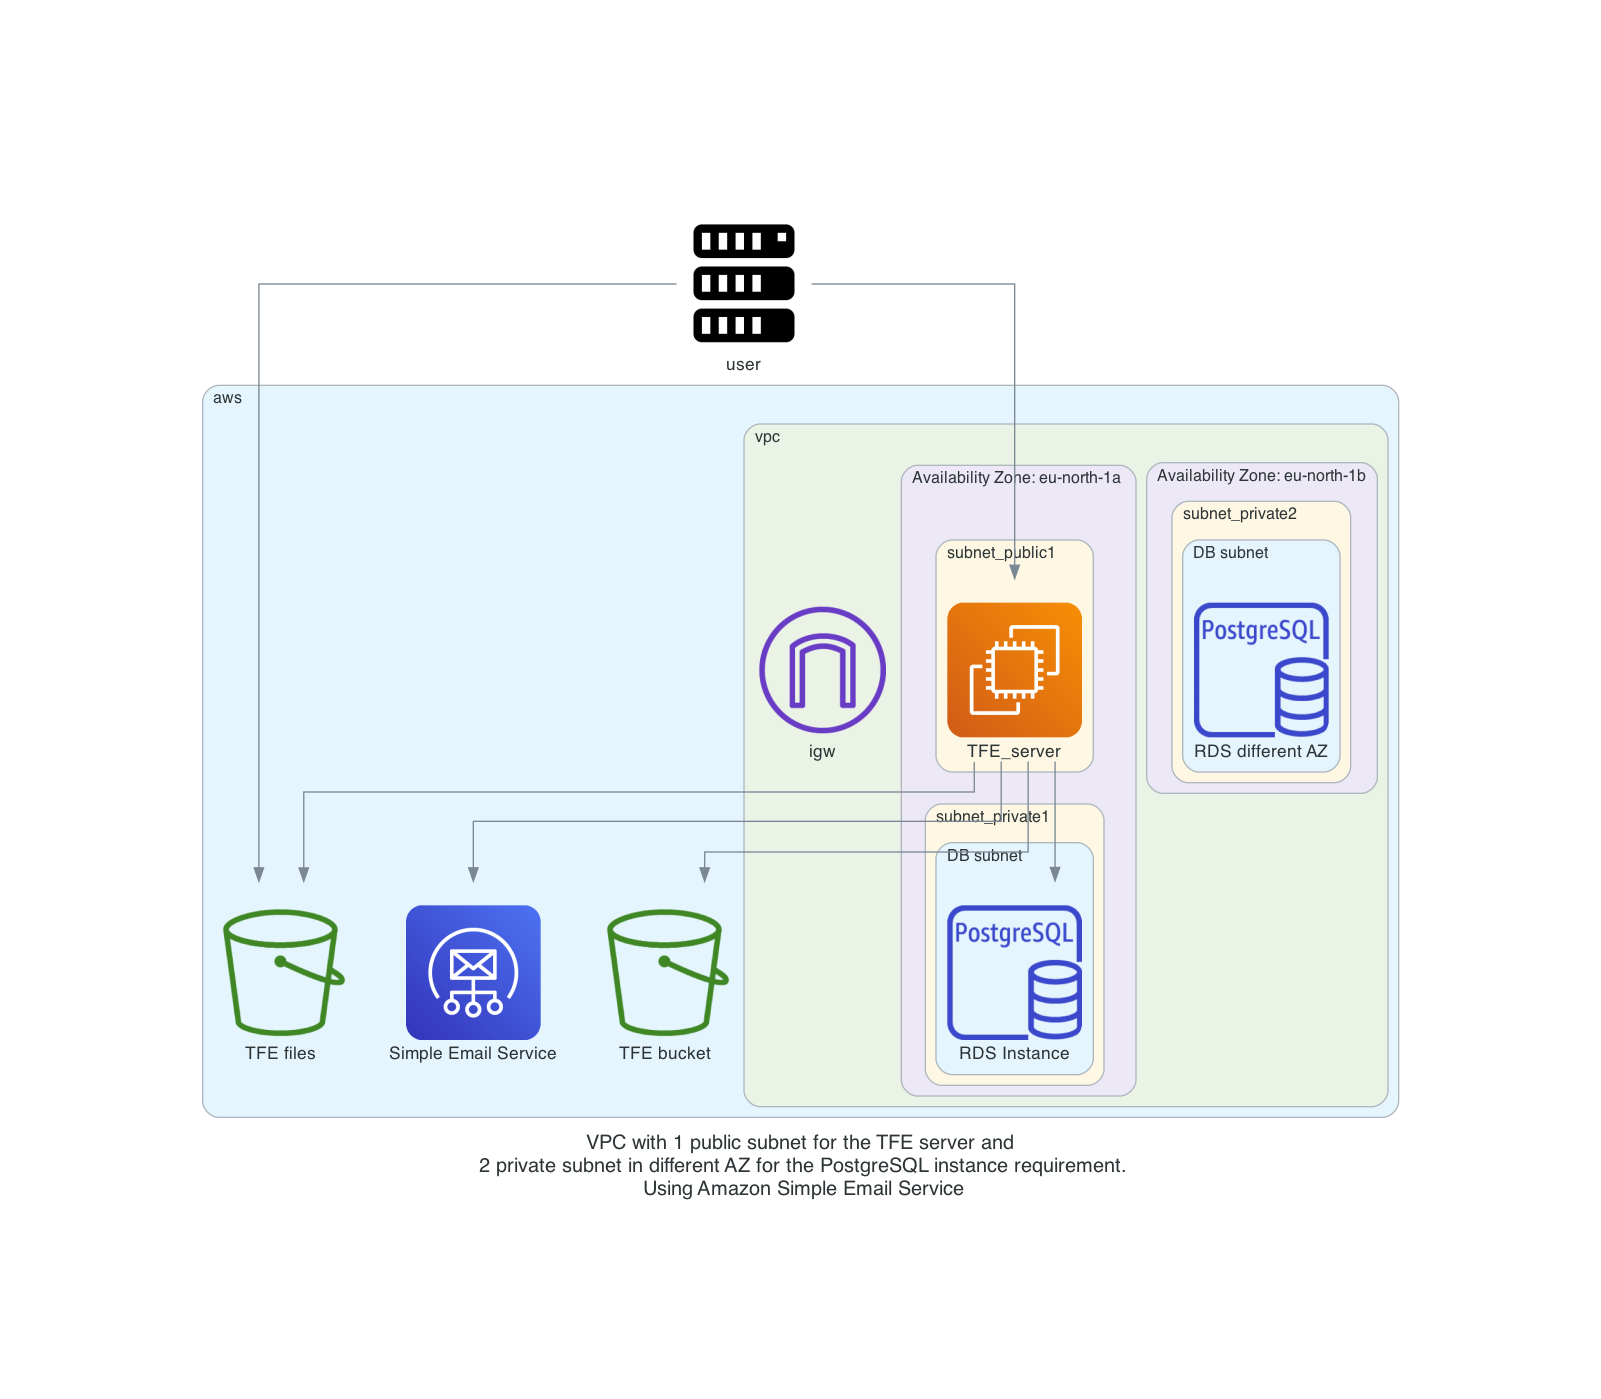
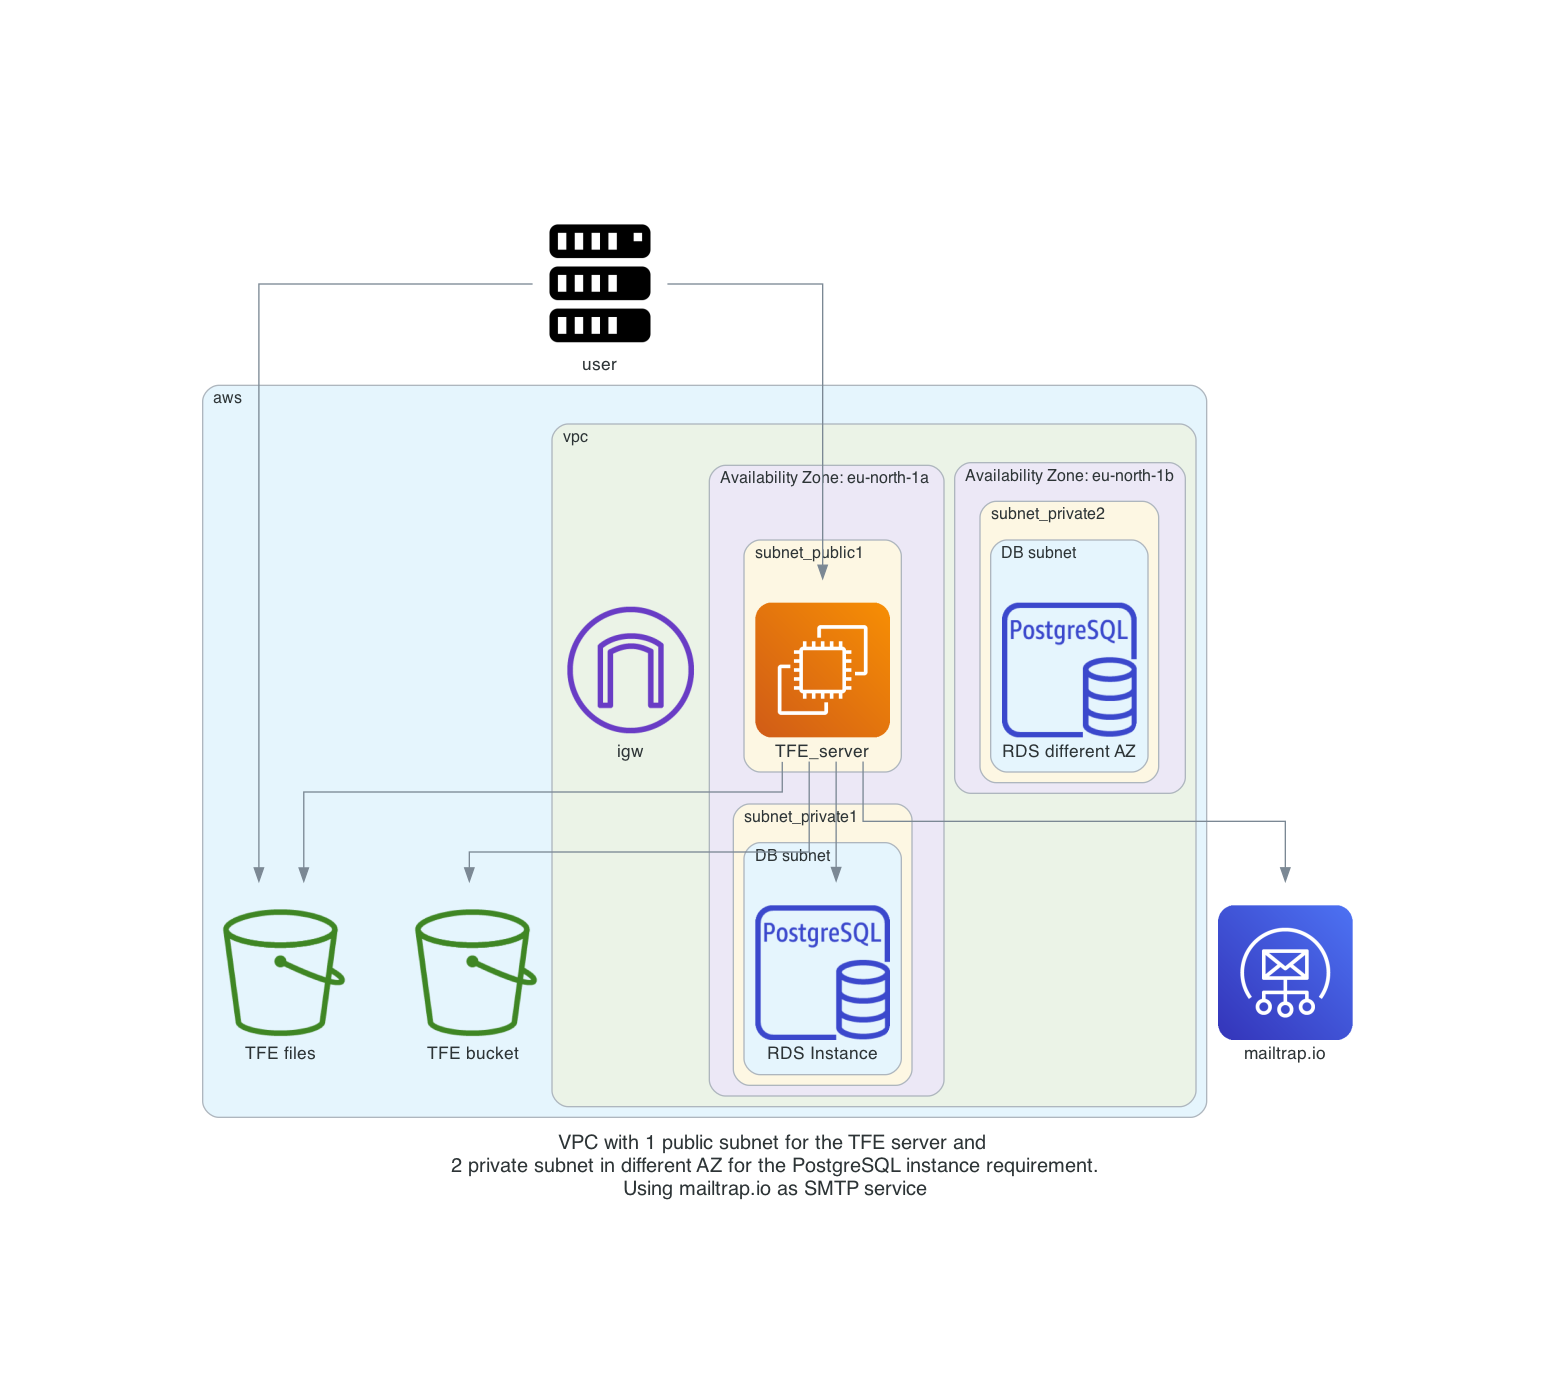
final documentation changes

diff --git a/diagram/diagram_external_smtp.py b/diagram/diagram_external_smtp.py
@@ -7,7 +7,7 @@ from diagrams.aws.database import RDSPostgresqlInstance
 from diagrams.aws.engagement import SimpleEmailServiceSes
 
 # Variables
-title = "VPC with 1 public subnet for the TFE server and\n 2 private subnet in different AZ for the PostgreSQL instance requirement.\n Using Amazon Simple Email Service"
+title = "VPC with 1 public subnet for the TFE server and\n 2 private subnet in different AZ for the PostgreSQL instance requirement.\n Using mailtrap.io as SMTP service"
 outformat = "png"
 filename = "diagram_external_smtp"
 direction = "TB"
@@ -21,10 +21,10 @@ with Diagram(
 ) as diag:
     # Non Clustered
     user = Server("user")
+    mailtrap = SimpleEmailServiceSes("mailtrap.io")
 
     # Cluster 
     with Cluster("aws"):
-        ses = SimpleEmailServiceSes("Simple Email Service")
         bucket_tfe = SimpleStorageServiceS3Bucket("TFE bucket")
         bucket_files = SimpleStorageServiceS3Bucket("TFE files")
         with Cluster("vpc"):
@@ -55,6 +55,6 @@ with Diagram(
     ec2_tfe_server >> [postgresql,
                        bucket_tfe, 
                        bucket_files,
-                       ses]
+                       mailtrap]
 
 diag

diff --git a/README.md b/README.md
@@ -22,17 +22,13 @@ The Terraform code will do the following steps
 ## License
 Make sure you have a TFE license available for use
 
-Store this under the directory `airgap/license.rli`
+Store this under the directory `files/license.rli`
 
-## Airgap software
-Download the `.airgap` file using the information given to you in your setup email and place that file under the directory `./airgap`
+## Mailtrap.io
+Make sure you have a free account on [mailtrap.io](https://mailtrap.io) and you get the specifics of the SMTP settings from your mailtrap.io mailbox.   
 
-Store this for example under the directory `airgap/610.airgap`
-
-## Installer Bootstrap
-[Download the installer bootstrapper](https://install.terraform.io/airgap/latest.tar.gz)
-
-Store this under the directory `airgap/replicated.tar.gz`
+Example:    
+![](media/20220720115927.png)    
 
 ## AWS
 We will be using AWS. Make sure you have the following
@@ -47,39 +43,84 @@ You need to have valid TLS certificates that can be used with the DNS name you w
   
 The repo assumes you have no certificates and want to create them using Let's Encrypt and that your DNS domain is managed under AWS. 
 
-
-
 # How to
 
+- Clone the repository to your local machine
+```sh
+git clone https://github.com/munnep/tfe_aws_smtp.git
+```
+- Go to the directory
+```sh
+cd tfe_aws_smtp
+```
+- Set your AWS credentials
+```sh
+export AWS_ACCESS_KEY_ID=
+export AWS_SECRET_ACCESS_KEY=
+export AWS_SESSION_TOKEN=
+```
+- Store the files needed for the TFE Airgap installation under the `./airgap` directory, See the notes [here](./airgap/README.md)
+- create a file called `variables.auto.tfvars` with the following contents and your own values
+```hcl
+tag_prefix               = "patrick-tfe7"                             # TAG prefix for names to easily find your AWS resources
+region                   = "eu-north-1"                               # Region to create the environment
+vpc_cidr                 = "10.234.0.0/16"                            # subnet mask that can be used 
+ami                      = "ami-09f0506c9ef0fb473"                    # AMI of the Ubuntu image  
+rds_password             = "Password#1"                               # password used for the RDS environment
+filename_license         = "license.rli"                              # filename of your TFE license stored under ./airgap
+dns_hostname             = "patrick-tfe7"                             # DNS hostname for the TFE
+dns_zonename             = "bg.hashicorp-success.com"                 # DNS zone name to be used
+tfe_password             = "Password#1"                               # TFE password for the dashboard and encryption of the data
+certificate_email        = "patrick.munne@hashicorp.com"              # Your email address used by TLS certificate registration
+public_key               = "ssh-rsa AAAAB3Nza"                        # The public key for you to connect to the server over SSH
+```
+- Terraform initialize
+```sh
+terraform init
+```
+- Terraform plan
+```sh
+terraform plan
+```
+- Terraform apply
+```sh
+terraform apply
+```
+- Terraform output should create 33 resources and show you the public dns string you can use to connect to the TFE instance
+```sh
+Apply complete! Resources: 33 added, 0 changed, 0 destroyed.
 
+Outputs:
 
-
-Looked for another SMTP mail server. Went for [mailtrap.io](mailtrap.io). You can create a free account and this will allow you to send emails and review them online. 
-
-This resulted in the manual test with a successful email  
-![](media/20220713135939.png)  
-
-manual setup details:[here](manual_setup/README.md)  
-
-# Diagram
-
-![](diagram/diagram_external_smtp.png)  
-
-
-# Create Terraform organization
-
-- login to the TFE dashboard  
-![](media/20220720093503.png)    
-- Go to the TFE application to create a first admin user
-![](media/20220720093539.png)    
-- create a new organization  
-![](media/20220720093639.png)     
-- 
-
+ssh_tfe_server = "ssh ubuntu@patrick-tfe7.bg.hashicorp-success.com"
+ssh_tfe_server_ip = "ssh ubuntu@13.51.247.150"
+tfe_appplication = "https://patrick-tfe7.bg.hashicorp-success.com"
+tfe_dashboard = "https://patrick-tfe7.bg.hashicorp-success.com:8800"
+```
+- Connect to the TFE dashboard. This could take 5 minutes before fully functioning.  
+See the url for tfe_dashboard in your terraform output. 
+- Unlock the dashboard with password from your `variables.auto.tfvars`  
+![](media/20220711165147.png)    
+- Click on the open button to go to the TFE application page  
+![](media/20220711165253.png)  
+- Create the first account  
+![](media/20220711165340.png)
+- create your organization and workspaces  
+![](media/20220711165420.png)  
+- Go to the right to your admin page  
+![](media/20220720121319.png)   
+- Go to the left to you Administration - SMTP 
+![](media/20220720121357.png)    
+- Configure your SMTP settings and click on save settings  
+![](media/20220720121425.png)   
+- If you login to [mailtrap.io](https://mailtrap.io) you should see the welcome mail in your mailbox
+![](media/20220720121542.png)    
+- When you are done you can destroy the entire environment
+```sh
+terraform destroy
+```
 
 # TODO
-- [] Use and configure Simple Email Service
-
 
 # DONE
 - [x] Creating a diagram of what to build
@@ -100,3 +141,4 @@ manual setup details:[here](manual_setup/README.md)
 - [x] build network according to the diagram
 - [x] test it manually
 - [x] install TFE
+- [x] Use and configure Simple Email Service
